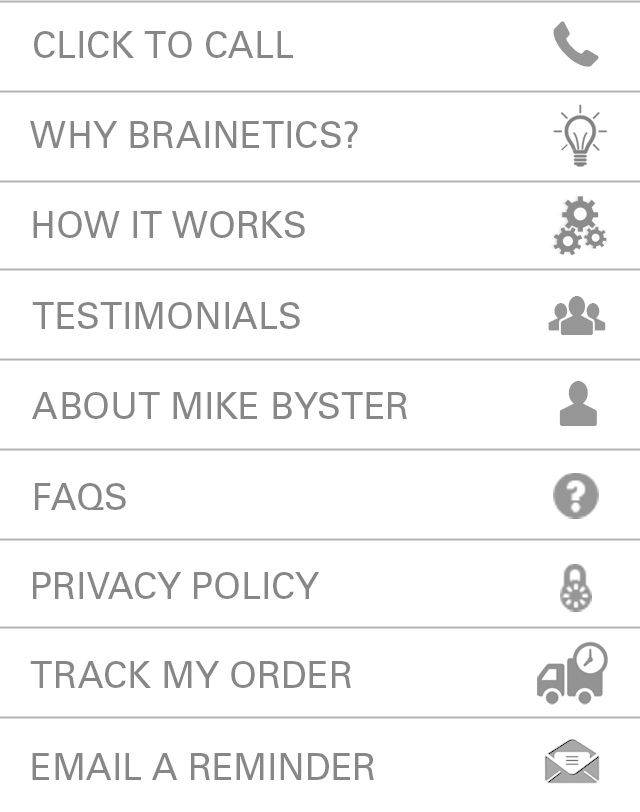
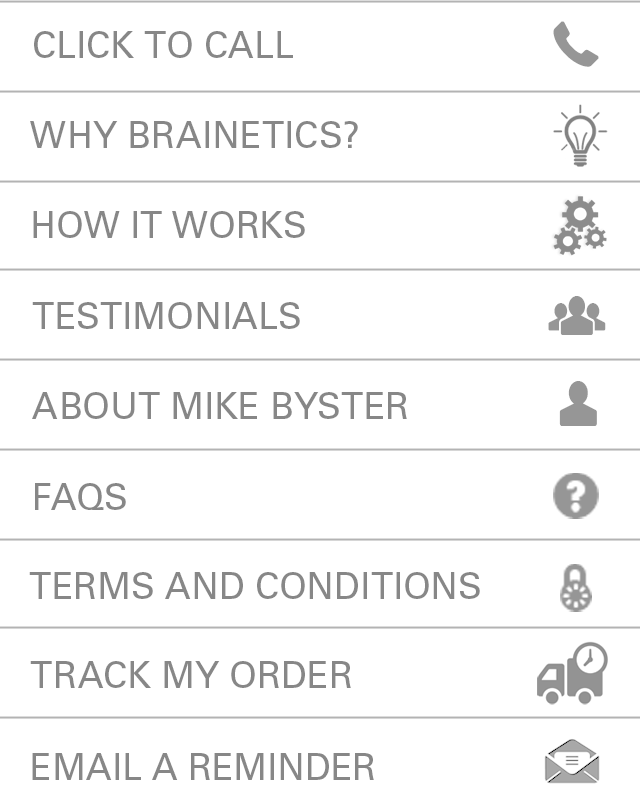
Garo: Front End updates Brainetics.com\Website\CSWeb\Mobile\index.aspx Brainetics.com\Website\CSWeb\Mobile\terms.aspx Brainetics.com\Website\CSWeb\B2\footer_receipt.html Brainetics.com\Website\CSWeb\B2\footer.html Brainetics.com\Website\CSWeb\B2\footer_cart.html Brainetics.com\Website\CSWeb\B2\terms

Changed region(s): [[0.0312, 0.6773, 0.75, 0.7389]]

diff --git a/Website/CSWeb/B2/footer.html b/Website/CSWeb/B2/footer.html
@@ -6,7 +6,7 @@
 <a href="/b2/productdetails.aspx">Product Details</a>|
 <a href="/b2/faq.aspx">FAQ</a>|
 <a href="/b2/contact.aspx">Contact Us</a>|
-<a href="/b2/privacy.aspx">Privacy Policy</a>|
+<a href="/b2/terms.aspx">Terms & Conditions</a>|
 <a href="/b2/send_email.aspx" class="send_email">Write to Mike</a>|
 <a href="http://secure.datapakservices.com/OrderTrackingPortal/?comp_num=204&proj_num=003" target="_blank">Track your Order</a>
 </p>

diff --git a/Website/CSWeb/B2/footer_receipt.html b/Website/CSWeb/B2/footer_receipt.html
@@ -6,7 +6,7 @@
 <a href="/b2/productdetails.aspx">Product Details</a>|
 <a href="/b2/faq.aspx">FAQ</a>|
 <a href="/b2/contact.aspx">Contact Us</a>|
-<a href="/b2/privacy.aspx">Privacy Policy</a>|
+<a href="/b2/terms.aspx">Terms & Conditions</a>|
 <a href="http://secure.datapakservices.com/OrderTrackingPortal/?comp_num=204&proj_num=003" target="_blank">Track your Order</a>
 </p>
 <p class="footerphone text-center">Phone Order: (800) 322-7165</p>

diff --git a/Website/CSWeb/B2/footer_cart.html b/Website/CSWeb/B2/footer_cart.html
@@ -1,6 +1,6 @@
 <div class="footer">
 <p><a href="/b2/contact.aspx">Contact Us</a>|
-<a href="/b2/privacy.aspx">Privacy Policy</a>|
+<a href="/b2/terms.aspx">Terms & Conditions</a>|
 <a href="/b2/send_email.aspx" class="send_email">Write to Mike</a>
 </p>
 <p class="footerphone text-center">Phone Order: (800) 322-7165</p>
